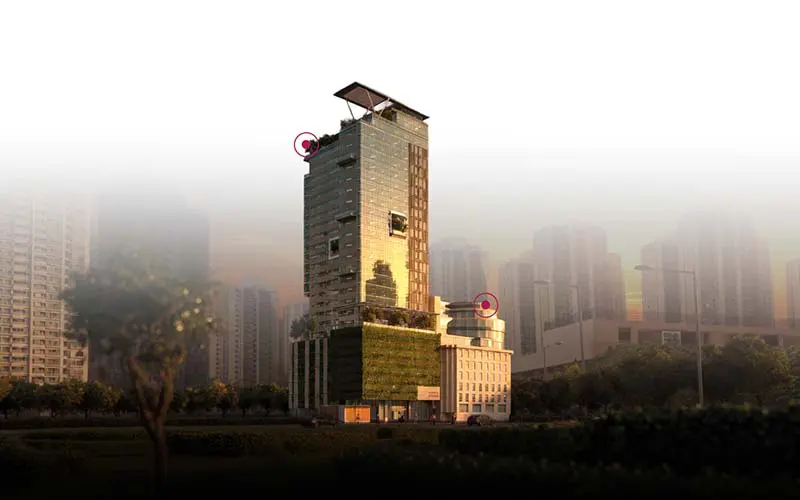
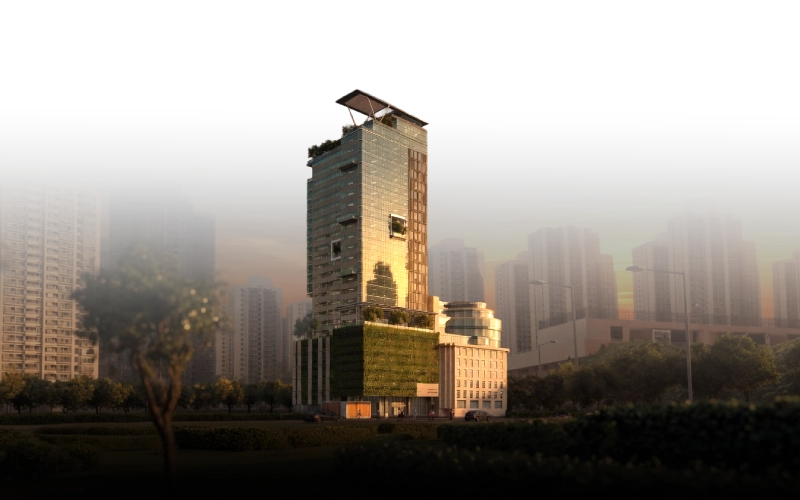
feat: add west tower to homepage

diff --git a/src/app/(site)/page.tsx b/src/app/(site)/page.tsx
@@ -78,7 +78,7 @@ export default function Home() {
         <div className="container">
           <div className="row justify-content-between">
             <div className="col-md-4">
-              <div className="south-cont">
+              <div className="tower-cont">
                 <Image
                   src="/img/home-south-tower.webp"
                   alt="South Tower"
@@ -95,7 +95,7 @@ export default function Home() {
               </div>
             </div>
             <div className="col-md-4">
-              <div className="north-cont">
+              <div className="tower-cont">
                 <Image
                   src="/img/home-north-tower.webp"
                   alt="North Tower"
@@ -109,6 +109,22 @@ export default function Home() {
                   elevated business presence.
                 </p>
                 <a href="/access-towers/north-tower" className="btn">View tower</a>
+              </div>
+            </div>
+            <div className="col-md-4">
+              <div className="tower-cont">
+                <Image
+                  src="/img/home-west-tower.webp"
+                  alt="North Tower"
+                  className="img-fluid"
+                  width={800}
+                  height={400}
+                />
+                <h3>West Tower</h3>
+                <p>
+                An eight-storey commercial development integrating 300-vehicle parking, retail and office spaces through a strategic UDA partnership.
+                </p>
+                <a href="/access-towers/west-tower" className="btn">View tower</a>
               </div>
             </div>
           </div>

diff --git a/src/app/(site)/globals.css b/src/app/(site)/globals.css
@@ -245,13 +245,18 @@ header {
   background-position: center bottom;
   background-repeat: no-repeat;
   height: auto;
-  min-height: 100vh;
+  min-height: 115vh;
   padding-bottom: 200px;
   padding-top: 3rem;
 
-  .south-cont,
-  .north-cont {
-    margin-bottom: 2rem;
+  .tower-cont {
+    padding-bottom: 2rem;
+    text-align: center;
+    height: 100%;
+    display: flex;
+    flex-direction: column;
+    justify-content: space-between;
+    align-items: center;
 
     h3 {
       color: var(--primary-txt-color);
@@ -1903,6 +1908,11 @@ h6 {
     flex: 0 0 16.666%;
   }
 
+
+  .south-north-tower-sec {
+    min-height: 90vh;
+  }
+
   .news-grid {
     gap: 2rem;
   }
@@ -2314,6 +2324,7 @@ h6 {
   }
 
   .south-north-tower-sec {
+    min-height: 115vh;
     background-image: url("/img/towers-bg.webp");
   }
 
@@ -2379,13 +2390,8 @@ h6 {
   }
 
   .south-north-tower-sec {
-    .south-cont,
-    .north-cont {
-      margin-bottom: 0;
-    }
-
-    .south-cont {
-      text-align: right;
+    .tower-cont {
+      padding-bottom: 0;
     }
   }
 
